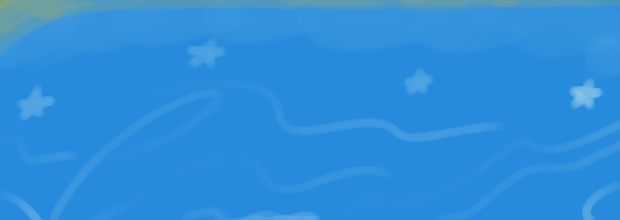
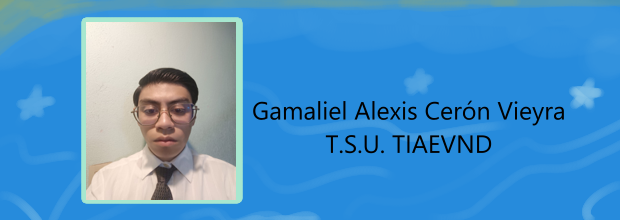
cvV5

Changed region(s): [[0.1226, 0.0545, 0.9194, 0.9273], [0.521, 0.6, 0.7968, 0.7091]]

diff --git a/README.md b/README.md
@@ -1,16 +1,13 @@
 <h1 align="Center">Bienvenidos 👋 este es mi perfil profesional</h1>
 <h1 align="Center">Gamaliel Alexis Cerón Vieyra</h1>
-<h2 align="Center">Estudidante de Tecnico Superior Universitario en la carrera de entornos virtuales y negocios digitales</h2>
-  
-  
-<p align="center">
-    <img src="/imagenes/foto_profesional.jpeg" width="300" height="300" > 
-</p>
+<h2 align="Center">Estudidante de Tecnico Superior Universitario en la carrera de Entornos Virtuales y Negocios Digitales</h2>
+
+<p align="center"><img src="/imagenes/banner_horizontal.png"></img></p>
 
 <h2>Sobre mi</h2>
-<h3>Hola, soy Gamaliel Alexis Cerón Vieyra, vivo en Huamantla Tlaxcala, soy alguien tranquilo y paciente, me gusta estar metido en mis propios asuntos, no me especializo en programación pero tengo conocimiento básico sobre un par de lenguajes, me interesaría dedicarme al lado artístico de las cosas como ilustraciones, animaciones y otras cosas.</h3>
+<h3>Hola, soy Gamaliel Alexis Cerón Vieyra, vivo en Huamantla Tlaxcala, soy alguien tranquilo y paciente, no me especializo en programación pero tengo conocimiento básico sobre un par de lenguajes, me interesa dedicarme al lado artístico de las cosas como ilustraciones y animaciones.</h3>
 <h3>Mis hobbies son dibujar, escuchar música, jugar varios videojuegos, ver videos de temas variados en Youtube, leer a veces y hacer ejercicio ocasionalmente</h3>
-<p></p>
+
 <h2>Formación académica</h2>
 <li>Estudio la carrera de Tecnologías de la Información del Área de Entornos Virtuales y Entornos digitales (TIAEVND) en Tecnico Superior Universitario.</li>
 
@@ -19,29 +16,31 @@
 </h3>
 
 <h2>Idiomas</h2>
-    <h3>Tengo un dominio decente en el ingles.</h3>
+    <h3>Mi lengua materna es el Español.</h3>
+    <h3>Nivel de inglés: B1.</h3>
 
 <h2>Habilidades</h2>
 <h3>
-    <li>Soy Paciente, resposable, me adapto con facilidad a varioas ambientes de trabajo, se trabajar en equipo y soy empatico.</li>
+    <li>Soy Paciente, resposable, me adapto con facilidad a varios ambientes de trabajo, se trabajar en equipo y soy empatico.</li>
 </h3>
 
 <h2>Tecnologías y Herramientas</h2>
 
 <h3>Lenguajes de programación: <p></p>
-    <li>Conozco C++, conozco mas de Html, manejo tambien Python.</li>
+    <li>Conozco C++, conozco mas de Html, manejo también Python.</li>
 </h3>
 
 <h3>Frameworks: <p></p>
-    <li>Por ahora solo manejo Bootstrap.</li>
+    <li>Bootstrap.</li>
+    <li>Django</li>
 </h3>
 
 <h3>Base de datos: <p></p>
-    <li>Conozco MySQL, manejo mejor Postgres</li>
+    <li>Conozco MySQL, manejo mejor Postgres.</li>
 </h3>
 
 <h3>Softwares<p></p>
-    Se utilizar el repertorio de aplicaciones de Microsoft y Google, Visual Studio Code con C++, Python y HTML, PSeInt, Photoshop, Adobe premiere, Adobe Audition, Krita, Blender, Unity, Xampp y MariaDB, Postgre, Canvas y otras
+    Se utilizar el repertorio de aplicaciones de Microsoft y Google, Visual Studio Code con C++, Python y HTML, PSeInt, Photoshop, Adobe premiere, Adobe Audition, Krita, Blender, Unity, Xampp y MariaDB, Postgre y Canvas.
 </h3> 
 
 <h2>Proyectos</h2>
@@ -73,8 +72,6 @@
   </a>
 </h3>
 
-<p align="center"><img src="/imagenes/banner_horizontal.png"></img></p>
-<p align="center"><img src="/imagenes/banner_vertical.png"></img></p> 
 
 <!--
 **Gama-Lex/Gama-Lex** is a ✨ _special_ ✨ repository because its `README.md` (this file) appears on your GitHub profile.
